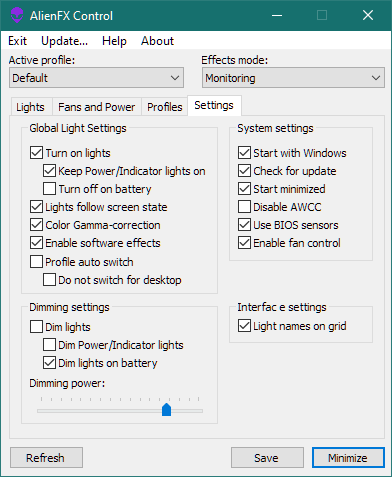
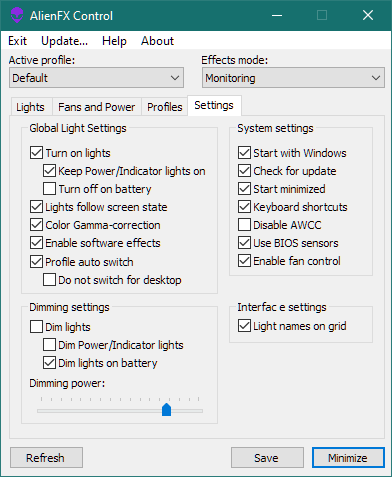
Documentation update

Changed region(s): [[0.6122, 0.4109, 0.8878, 0.5577]]

diff --git a/Doc/alienfx-gui.md b/Doc/alienfx-gui.md
@@ -314,11 +314,12 @@ Application behavior control block at right:
 - "Start with Windows" - Start application at Windows start. It will not work if application request run as admin level (see below) (default - off).
 - "Check for update" - Enables online update check (default - on).
 - "Start minimized" - Hide application window in system tray after start (default - off).
+- "Keyboard shortcuts" - Enables global keyboard hotkeys (default - on).
 - "Disable AWCC" - Application will check active Alienware Control Center service at the each start and will try to stop it (and start back upon exit). It will require "Run as administrator" privilege (default - off).
 - "Use BIOS sensors" - Read additional hardware data from Windows WMI and Alienware BIOS (if fan control enabled). It will require "Run as administrator" privilege (default - off).
 - "Enable fan control" - Enables fan and power control functionality, as well as some additional (Alienware BIOS) temperature sensors. It will require "Run as administrator" privilege (default - off).
 
-Light system control options at the left block:
+Light system control options at the left:
 - "Turn on lights" - Global light control system switch. All lights will be off and black if disabled (default - on).
   - "Keep Power/indicator on" - Power and Indicator lights stay on even if lights turned off (default - on).
   - "Turn off for battery" - Lights will turned off at battery power and back on at AC. (default - off). 

diff --git a/Doc/alienfan-gui.md b/Doc/alienfan-gui.md
@@ -43,14 +43,15 @@ You can press "Stop Overboost" button at any time to stop overboost check.
 You can minimize application to tray pressing Minimize button (or the top one), left click on try icon restore application back, right click brings you the context menu for power mode/g-mode change.
 
 There are some settings into application top menu under "Settings":
-- "Start with windows" - If checked, application will run at system start.
-- "Start minimized" - If checked, application hide into tray icon after start.
-- "Check for update" - If checked, application will made online update check at start.
-- "Disable AWCC" - If checked and AWCC service running, it will be stopped and started back then application quit.
+- "Start with windows" - Application will run at system start.
+- "Start minimized" - Application hide into tray icon after start.
+- "Keyboard shortcuts" - Global keyboard hotkeys enabled.
+- "Check for update" - Application will made online update check at start.
+- "Disable AWCC" - In case AWCC service running, it will be stopped and started back then application quit.
 
-## Keyboard shortcuts 
+## Keyboard shortcuts
 
 Global shortcuts (works all time application running):
-- CTRL+ALT+0..5 - switch active power mode. 0 is for Manual, 1..5 for system-defined
+- CTRL+ALT+0..N - switch active power mode. 0 is for Manual, 1..N for system-defined
 - F17 (G-key for Dell G-series laptops) - Enable/disable G-Mode (performance mode)
 
